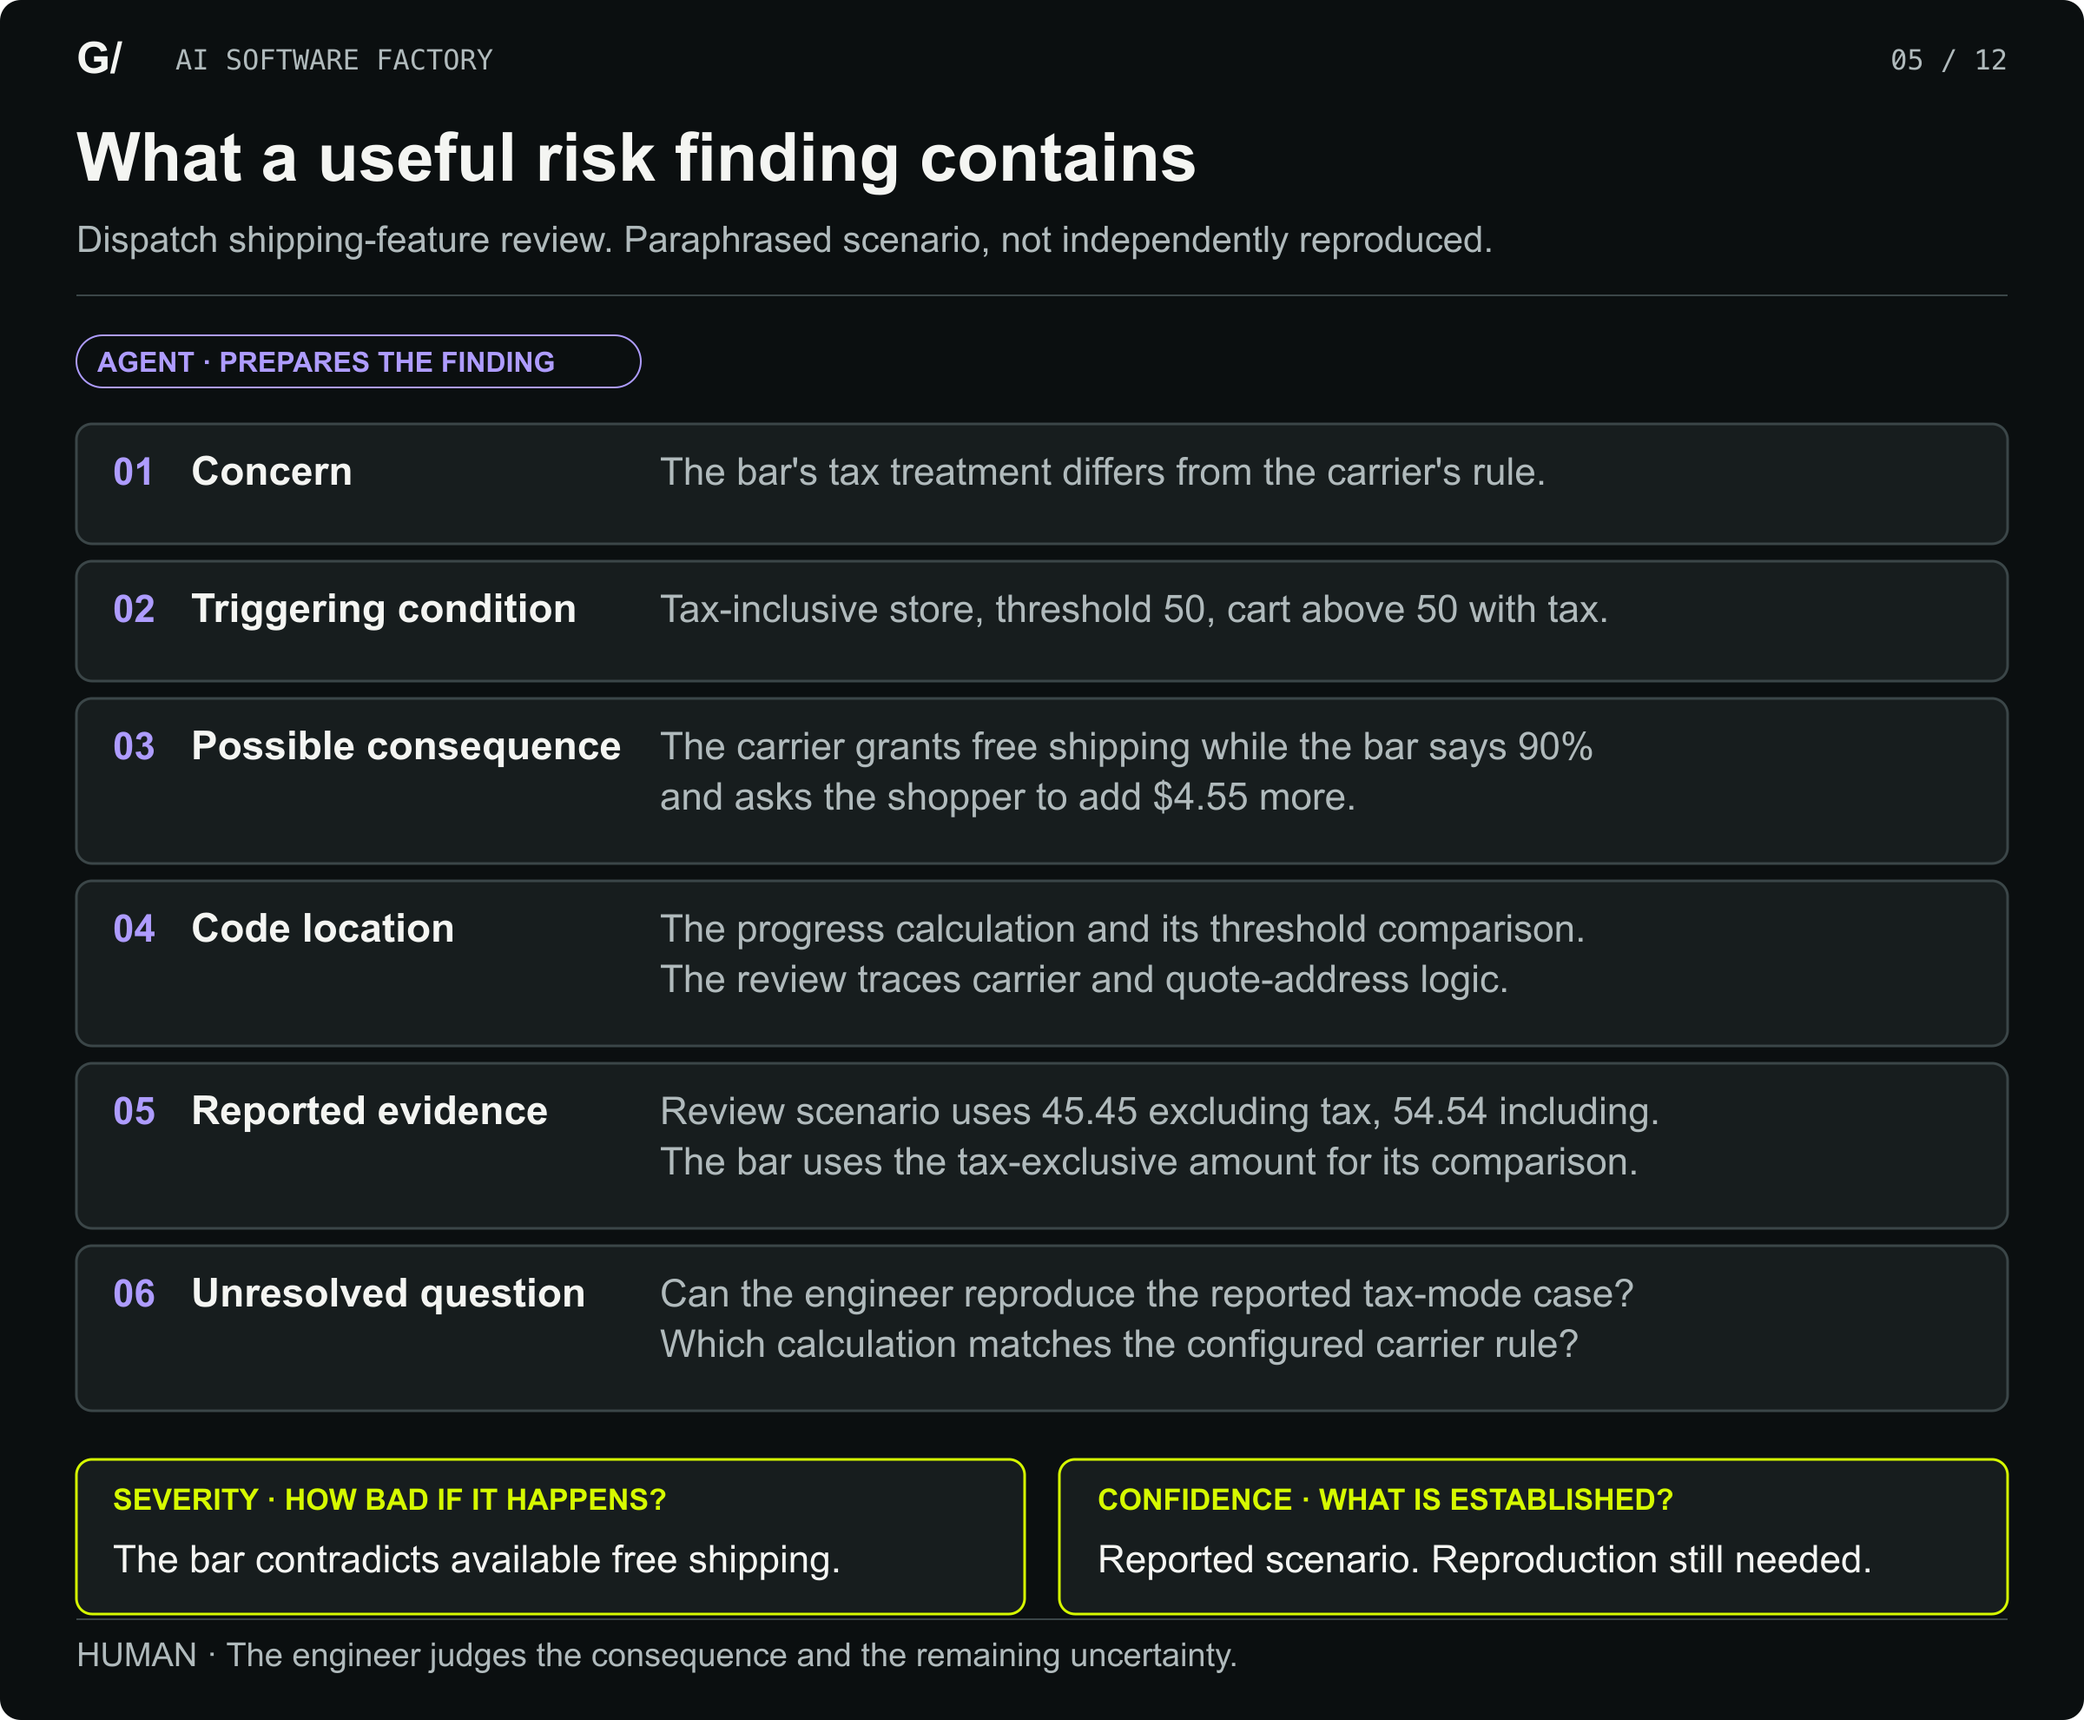
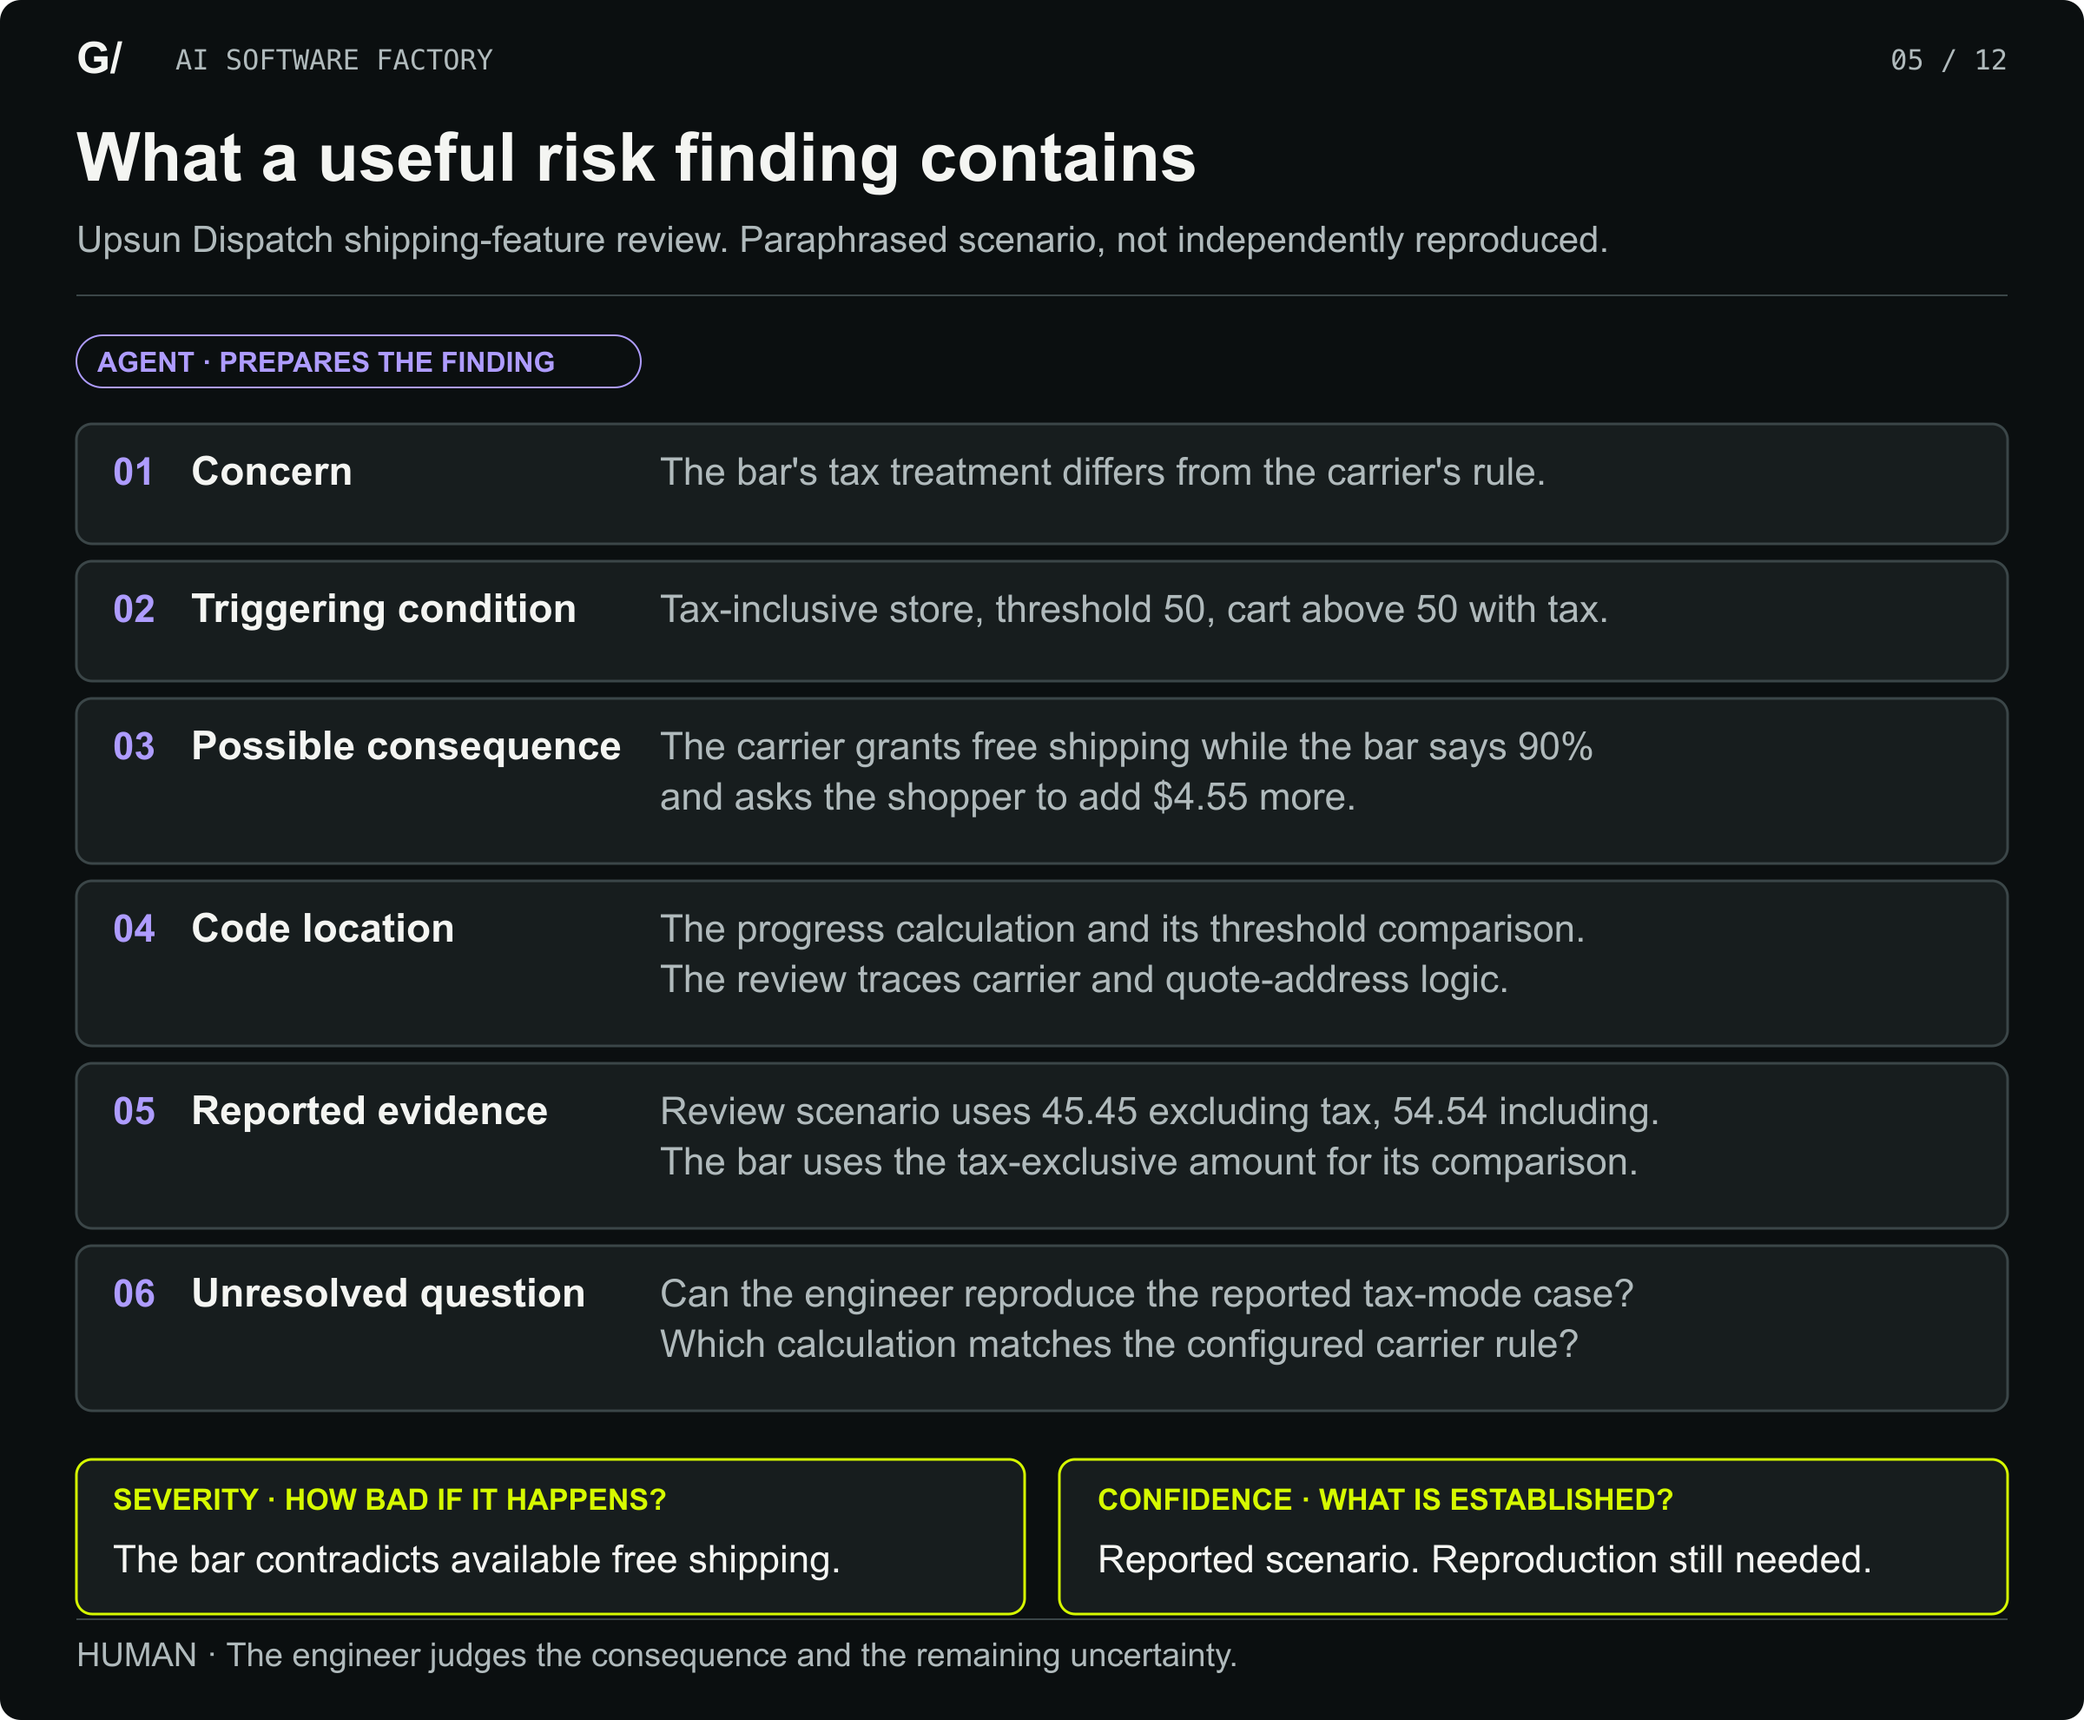
fix: use Upsun Dispatch throughout factory article
Keep the published review heading anchor and refresh desktop and mobile illustrations. Refs #1.

Changed region(s): [[0.0312, 0.1232, 0.7812, 0.154]]

diff --git a/src/data/factory-diagrams.ts b/src/data/factory-diagrams.ts
@@ -79,7 +79,7 @@ export const factoryDiagrams: Record<string, FactoryDiagram> = {
   },
   '05-risk-finding': {
     title: 'What a useful risk finding contains',
-    intro: 'Dispatch shipping-feature review. Paraphrased scenario, not independently reproduced.',
+    intro: 'Upsun Dispatch shipping-feature review. Paraphrased scenario, not independently reproduced.',
     height: 990,
     cards: [
       { label: 'Agent prepares the finding · 01', title: 'Concern', lines: ["The bar's tax treatment differs from the carrier's rule."] },
@@ -95,20 +95,20 @@ export const factoryDiagrams: Record<string, FactoryDiagram> = {
   },
   '06-review-decisions': {
     title: 'One change, two concerns to investigate',
-    intro: 'Observed Dispatch findings. Human actions below are proposed, not recorded outcomes.',
+    intro: 'Observed Upsun Dispatch findings. Human actions below are proposed, not recorded outcomes.',
     height: 990,
     cards: [
-      { label: 'Dispatch · Shipping-feature review', title: '13 files reviewed', lines: ['1 warning · 3 minor points · 1 nitpick'] },
-      { label: 'Dispatch label · Warning', title: 'Tax rules diverge', lines: ['The carrier includes tax in this case. The progress bar excludes it.'] },
+      { label: 'Upsun Dispatch · Shipping-feature review', title: '13 files reviewed', lines: ['1 warning · 3 minor points · 1 nitpick'] },
+      { label: 'Upsun Dispatch label · Warning', title: 'Tax rules diverge', lines: ['The carrier includes tax in this case. The progress bar excludes it.'] },
       { label: 'Human · Proposed investigation', title: 'Investigate the tax rules', lines: ['Reproduce the tax-inclusive case.', 'Compare the bar with carrier rules.', 'Agree on the shared calculation.', 'If confirmed, align eligibility.', 'Test configured tax modes and limits.', 'Record checks for the revised change.'] },
-      { label: 'Dispatch label · Minor', title: 'Optional bar, wider failure', lines: ['An unguarded getData() exception can fail the whole cart section load.'] },
+      { label: 'Upsun Dispatch label · Minor', title: 'Optional bar, wider failure', lines: ['An unguarded getData() exception can fail the whole cart section load.'] },
       { label: 'Human · Proposed investigation', title: 'Investigate the failure', lines: ['Inject a post-quote getData() failure.', 'Check whether the cart section fails.', 'Choose an optional-feature fallback.', 'If confirmed, isolate the failure.', 'Keep cart data when the bar fails.', 'Add a regression for the exception.'] },
     ],
-    notes: ["Warning and Minor are Dispatch's labels. Two of four open threads are shown.", 'Snapshot, 9 September 2026. The change was open and all four review threads remained unresolved.'],
+    notes: ["Warning and Minor are Upsun Dispatch's labels. Two of four open threads are shown.", 'Snapshot, 9 September 2026. The change was open and all four review threads remained unresolved.'],
   },
   '07-revision-evidence': {
     title: 'Route the change according to risk',
-    intro: "Proposed policy. This is not a description of Dispatch or a replica of Meta's workflow.",
+    intro: "Proposed policy. This is not a description of Upsun Dispatch or a replica of Meta's workflow.",
     height: 1030,
     cards: [
       { label: 'Human · Approved policy', title: 'Define the policy', lines: ['Define eligibility, required checks, review owners, deadlines, and stop conditions.'] },
